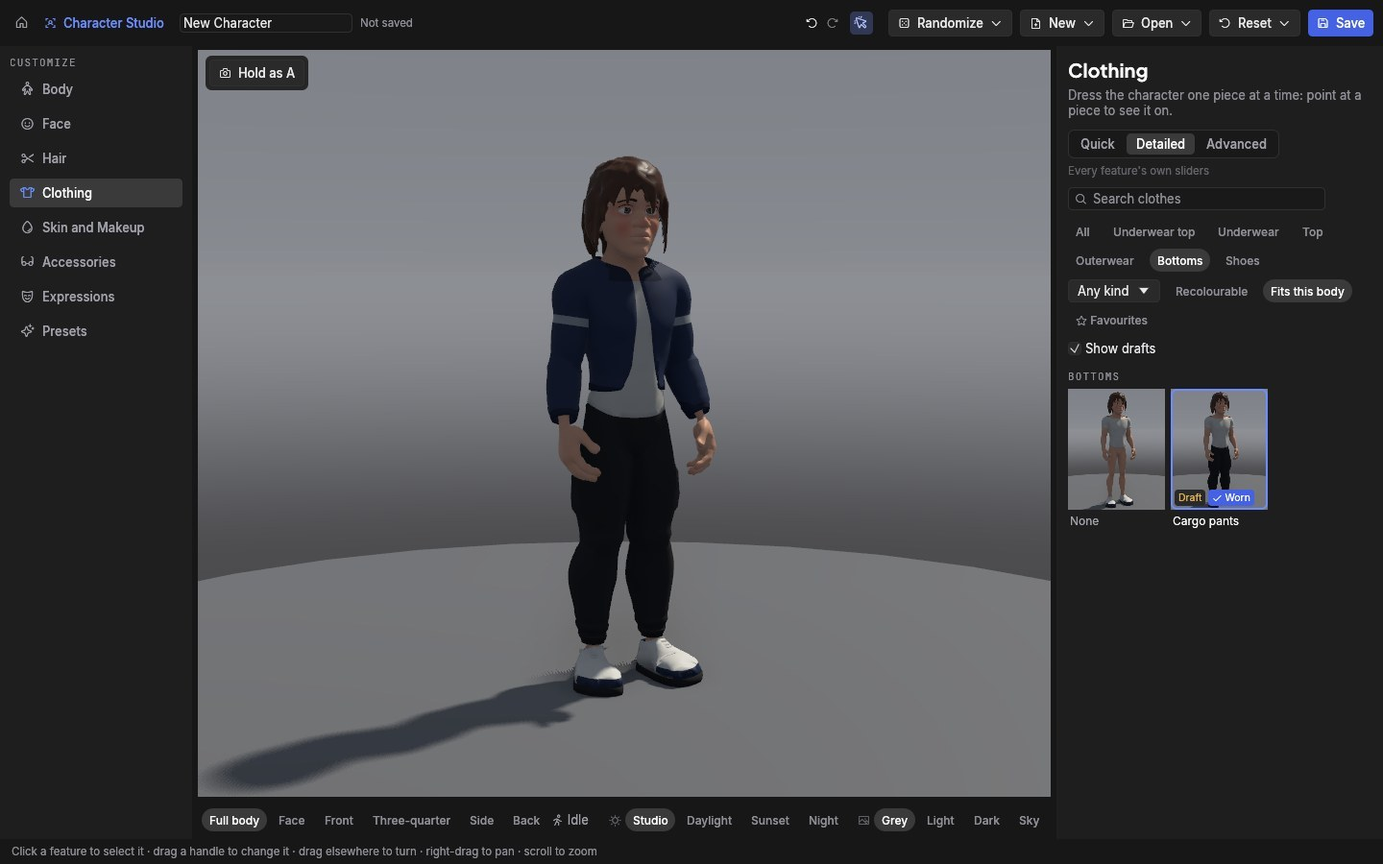
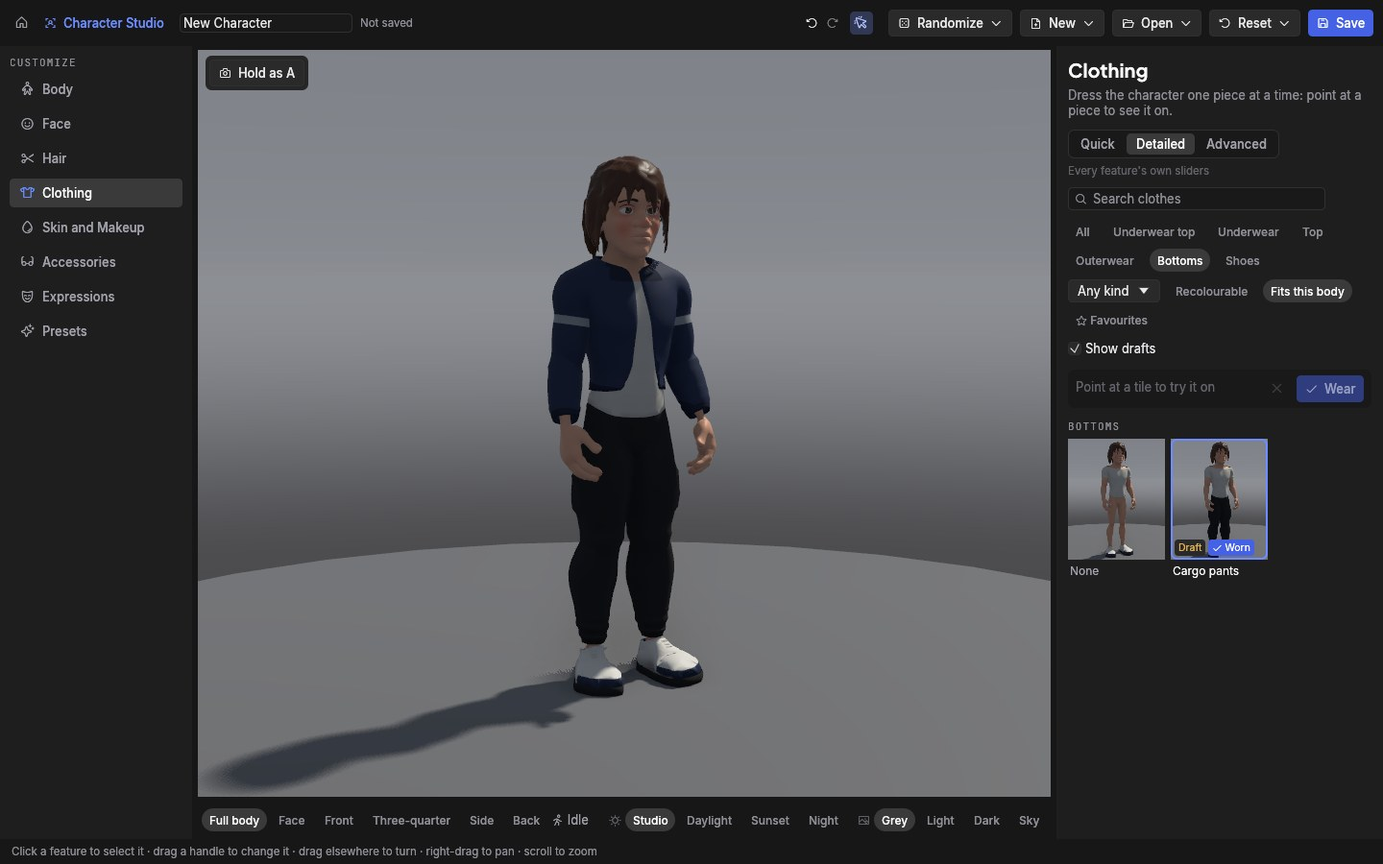
Browsers Review Fixes 2: Picking a Tile Never Moves the Tiles
The "Trying on" bar appeared only once a tile was picked, so a pick
moved every tile 52 points under the still pointer and the next frame
tried on the tile above the one clicked (and clicking the worn tile
tried on the one below). The bar is now always drawn (a hint with Wear
and the close button greyed when nothing is picked), and a click mutes
the tile under the pointer as Esc does, so nothing new is tried on
until the pointer moves. Two pointer-event tests, seen failing first.

Also a TODO(ux-drag) on the colour picker, the docs for the bar and
the mute, and the six redrawn sheets.

Changed region(s): [[0.75, 0.4356, 1.0, 0.6844], [0.4688, 0.2489, 0.5, 0.28], [0.4375, 0.2178, 0.4688, 0.2489]]

diff --git a/crates/editor/src/character_workspace/browser_tests.rs b/crates/editor/src/character_workspace/browser_tests.rs
@@ -1208,3 +1208,122 @@ fn esc_takes_a_try_on_off_while_the_pointer_stays_on_its_tile() {
     );
     let _ = std::fs::remove_dir_all(&folder);
 }
+
+/// One frame of `workspace` drawn in `ctx` with `events`.
+fn frame_in(
+    ctx: &egui::Context,
+    workspace: &mut CharacterWorkspace,
+    events: Vec<egui::Event>,
+) -> egui::FullOutput {
+    theme::run(ctx, input(events), |ui| {
+        assert_eq!(workspace.ui(ui, None), None);
+    })
+}
+
+/// A press (or release) of the main button at `at`.
+fn button_at(at: egui::Pos2, pressed: bool) -> egui::Event {
+    egui::Event::PointerButton {
+        pos: at,
+        button: egui::PointerButton::Primary,
+        pressed,
+        modifiers: egui::Modifiers::NONE,
+    }
+}
+
+/// Moves to `at`, then clicks there, then draws three frames with the
+/// pointer still: what a person does when they click a tile.
+fn click_and_hold_still(ctx: &egui::Context, workspace: &mut CharacterWorkspace, at: egui::Pos2) {
+    frame_in(ctx, workspace, vec![egui::Event::PointerMoved(at)]);
+    frame_in(ctx, workspace, vec![egui::Event::PointerMoved(at)]);
+    frame_in(ctx, workspace, vec![button_at(at, true)]);
+    frame_in(ctx, workspace, vec![button_at(at, false)]);
+    for _ in 0..3 {
+        frame_in(ctx, workspace, Vec::new());
+    }
+}
+
+/// The hairstyle `description` wears (its `hair` slot).
+fn hair_of(workspace: &CharacterWorkspace, description: &Description) -> Option<String> {
+    let library = workspace.library();
+    description
+        .items
+        .iter()
+        .find(|worn| {
+            library
+                .item(&worn.id)
+                .is_some_and(|item| item.slot == "hair")
+        })
+        .map(|worn| worn.id.clone())
+}
+
+#[test]
+fn clicking_near_a_tiles_top_tries_on_that_tile() {
+    // Review fix 2: picking a tile must not move the grid under a still
+    // pointer, or the tile above it would be previewed in its place.
+    let (folder, mut workspace) = stylized_workspace("browser-click-top");
+    workspace.apply(Intent::Browse(Browse::ShowDrafts(true)));
+    let ctx = theme::test_context();
+    frame_in(&ctx, &mut workspace, Vec::new());
+    let output = frame_in(&ctx, &mut workspace, Vec::new());
+    let long = text_at(&output, "Long").expect("the Long tile is drawn");
+    let bob = text_at(&output, "Bob").expect("the Bob tile is drawn");
+    assert!(long.y > bob.y + 50.0, "Long is in a lower row than Bob");
+    // A point near the top of Long's tile: a row's pitch above its label
+    // is the label of the row above; the tile starts about 20 points lower.
+    let at = egui::pos2(long.x, long.y - (long.y - bob.y) + 35.0);
+    frame_in(&ctx, &mut workspace, vec![egui::Event::PointerMoved(at)]);
+    frame_in(&ctx, &mut workspace, vec![egui::Event::PointerMoved(at)]);
+    assert_eq!(
+        hair_of(&workspace, workspace.shown()).as_deref(),
+        Some("axcenity/hair-long"),
+        "the point is on the Long tile"
+    );
+    click_and_hold_still(&ctx, &mut workspace, at);
+    assert_eq!(
+        workspace
+            .browser
+            .selected
+            .as_ref()
+            .and_then(|p| p.item.as_deref()),
+        Some("axcenity/hair-long")
+    );
+    assert_eq!(
+        hair_of(&workspace, workspace.shown()).as_deref(),
+        Some("axcenity/hair-long"),
+        "clicked Long, so the character shows Long (hovered: {:?})",
+        workspace.browser.hovered
+    );
+    let _ = std::fs::remove_dir_all(&folder);
+}
+
+#[test]
+fn clicking_the_worn_tile_while_trying_one_on_previews_nothing() {
+    // Review fix 2: clicking the worn tile ends the pick (Select(None)); the
+    // tiles must not move under the still pointer and preview another.
+    let (folder, mut workspace) = stylized_workspace("browser-click-worn");
+    workspace.apply(Intent::Browse(Browse::ShowDrafts(true)));
+    // Bob is worn: its tile is in the first row, with Long below it.
+    workspace.apply(Intent::Wear {
+        slot: "hair".to_owned(),
+        item: Some("axcenity/hair-bob".to_owned()),
+    });
+    let before = workspace.description().clone();
+    let ctx = theme::test_context();
+    frame_in(&ctx, &mut workspace, Vec::new());
+    let output = frame_in(&ctx, &mut workspace, Vec::new());
+    let long = text_at(&output, "Long").expect("the Long tile is drawn");
+    click_and_hold_still(&ctx, &mut workspace, long);
+    assert!(workspace.browser.selected.is_some(), "Long is picked");
+    let output = frame_in(&ctx, &mut workspace, Vec::new());
+    let bob = text_at(&output, "Bob").expect("the worn Bob tile is drawn");
+    assert!(long.y > bob.y + 50.0, "Long is below Bob");
+    click_and_hold_still(&ctx, &mut workspace, bob);
+    assert!(workspace.browser.selected.is_none(), "the pick is over");
+    assert_eq!(
+        *workspace.shown(),
+        before,
+        "nothing is tried on (hovered: {:?})",
+        workspace.browser.hovered
+    );
+    let _ = std::fs::remove_dir_all(&folder);
+}

diff --git a/crates/editor/src/character_workspace/panel/browser.rs b/crates/editor/src/character_workspace/panel/browser.rs
@@ -194,10 +194,10 @@ pub(super) fn page(
     }
     ui.add_space(4.0);
 
-    // What is being tried on, and the way to wear it.
-    if let Some(pick) = &state.selected {
-        intents.extend(trying_bar(ui, library, base, pick));
-    }
+    // What is being tried on, and the way to wear it. The bar is always
+    // there (a hint when nothing is picked), so picking a tile never moves
+    // the tiles under a still pointer: the tile above would be hovered.
+    intents.extend(trying_bar(ui, library, base, state.selected.as_ref()));
 
     // The worn items' own controls (colours, variants, parameters), above
     // the tiles so they're seen without scrolling; each folds away.
@@ -285,8 +285,8 @@ pub(super) fn page(
         intents.extend(grid(ui, workspace, &slot.id, &tiles, &mut hovered));
         ui.add_space(8.0);
     }
-    // After Esc the tiles can shift under a still pointer (the "Trying
-    // on" bar goes), so a muted tile waits for the pointer to move.
+    // After Esc or a click the tiles can shift under a still pointer (the
+    // worn controls change), so a muted tile waits for the pointer to move.
     let moved = ui.input(|input| input.pointer.delta() != egui::Vec2::ZERO);
     if state.hover_changed(&hovered, moved) {
         intents.push(Intent::Browse(Browse::Hover(hovered)));
@@ -344,11 +344,11 @@ fn trying_bar(
     ui: &mut egui::Ui,
     library: &Library,
     base: &BaseManifest,
-    pick: &Pick,
+    pick: Option<&Pick>,
 ) -> Vec<Intent> {
     let palette = theme::palette(ui.ctx());
     let mut intents = Vec::new();
-    let label = match &pick.item {
+    let label = pick.map(|pick| match &pick.item {
         Some(id) => library
             .item(id)
             .map_or_else(|| id.clone(), |item| item.label.clone()),
@@ -356,34 +356,51 @@ fn trying_bar(
             .slot(&pick.slot)
             .and_then(|slot| slot.empty_label.clone())
             .unwrap_or_else(|| "Nothing".to_owned()),
-    };
+    });
     egui::Frame::new()
         .fill(palette.inset)
         .corner_radius(theme::radius::CARD)
         .inner_margin(egui::Margin::symmetric(8, 6))
         .show(ui, |ui| {
             ui.horizontal(|ui| {
-                ui.label(
-                    egui::RichText::new(format!("Trying on {label}")).color(palette.text_strong),
-                )
-                .on_hover_text("Shown on the character only: nothing is changed until you wear it");
+                // The same widgets either way, so the bar keeps its height.
+                match &label {
+                    Some(label) => ui
+                        .label(
+                            egui::RichText::new(format!("Trying on {label}"))
+                                .color(palette.text_strong),
+                        )
+                        .on_hover_text(
+                            "Shown on the character only: nothing is changed until you wear it",
+                        ),
+                    None => ui.label(
+                        egui::RichText::new("Point at a tile to try it on")
+                            .color(palette.text_muted),
+                    ),
+                };
                 ui.with_layout(egui::Layout::right_to_left(egui::Align::Center), |ui| {
-                    if ui
-                        .add(widgets::button(
-                            widgets::Role::Primary,
-                            Some(icons::CHECK),
-                            "Wear",
-                            &palette,
-                        ))
+                    let wear = ui
+                        .add_enabled(
+                            pick.is_some(),
+                            widgets::button(
+                                widgets::Role::Primary,
+                                Some(icons::CHECK),
+                                "Wear",
+                                &palette,
+                            ),
+                        )
                         .on_hover_text("Wear it (you can undo it)")
-                        .clicked()
-                    {
+                        .on_disabled_hover_text("Click a tile first");
+                    if let Some(pick) = pick.filter(|_| wear.clicked()) {
                         intents.push(Intent::Wear {
                             slot: pick.slot.clone(),
                             item: pick.item.clone(),
                         });
                     }
-                    if widgets::icon_button(ui, icons::X, "Put it back (Esc)", false).clicked() {
+                    let back = ui.add_enabled_ui(pick.is_some(), |ui| {
+                        widgets::icon_button(ui, icons::X, "Put it back (Esc)", false)
+                    });
+                    if back.inner.clicked() {
                         intents.push(Intent::EndPreview);
                     }
                 });

diff --git a/crates/editor/src/character_workspace/browser.rs b/crates/editor/src/character_workspace/browser.rs
@@ -143,9 +143,10 @@ pub struct Browser {
     /// What the preview shows in the character's place while a tile is
     /// hovered or picked: the character wearing it.
     pub preview: Option<Description>,
-    /// The tile under the pointer when a preview ended (Esc, an edit):
-    /// hovering it doesn't preview it again until the pointer leaves it,
-    /// or the panel, still seeing the pointer there, would bring it back.
+    /// The tile under the pointer when a preview ended (Esc, an edit) or a
+    /// tile was clicked: no Hover is taken until the pointer moves off it,
+    /// or the panel, still seeing the pointer there (or a tile shifted
+    /// under it), would bring a preview back.
     pub muted: Option<Pick>,
 }
 
@@ -183,6 +184,17 @@ impl Browser {
         self.hovered = None;
         self.selected = None;
         self.preview = None;
+    }
+
+    /// A click on a tile: picks `pick` (`None`: the worn tile, ending the
+    /// pick). The clicked tile is muted, as after Esc, so whatever else
+    /// comes under the still pointer (should the tiles shift) isn't
+    /// previewed until the pointer moves. A click is a new pick, even of a
+    /// muted tile.
+    pub fn select(&mut self, pick: Option<Pick>) {
+        let clicked = self.hovered.take().or_else(|| pick.clone());
+        self.muted = clicked.or_else(|| self.muted.take());
+        self.selected = pick;
     }
 
     /// Whether the panel should report `hovered`, the tile under the
@@ -601,12 +613,7 @@ impl CharacterWorkspace {
                     return;
                 }
             }
-            Browse::Select(pick) => {
-                // A click is a new pick, even of the muted tile.
-                self.browser.muted = None;
-                self.browser.selected = pick;
-                self.browser.hovered = None;
-            }
+            Browse::Select(pick) => self.browser.select(pick),
         }
         let library = self.library();
         self.browser.update_preview(&self.description, &library);

diff --git a/crates/editor/src/character_workspace/panel/worn.rs b/crates/editor/src/character_workspace/panel/worn.rs
@@ -270,6 +270,11 @@ fn colour_button(
                 values: vec![(COLOUR_VALUE.to_owned(), to)],
                 gesture,
             };
+            // TODO(ux-drag): the colour picker's own HSV and value fields
+            // are numeric controls too (the drag rule: a full range in
+            // 100 to 120 points, Shift about 25%, Ctrl about 2x, typed
+            // values); they are egui's and shared with the Skin page, so
+            // the rule reaches them through `color_palette`, not here.
             if color_palette::edit_srgb(ui, &mut rgb).changed() {
                 let to = (Colour(rgb) != neutral).then_some(MaterialValue::Colour(Colour(rgb)));
                 // The shell closes the step when the pointer is let go.

diff --git a/docs/editor/character-studio.md b/docs/editor/character-studio.md
@@ -20,7 +20,7 @@ Code: `crates/editor/src/character_workspace.rs` (the description, starting a ch
 - **Stylized presets** are `assets/characters/humanoid/presets/*.preset.json`, written by `presets.py` beside its manifest with the stylized parameters: Slim, Athletic, Heavy and Broad bodies for each end of its frame (each names `frame` 0 or 1), Round, Long, Angular and Soft faces, and the Masculine, Feminine and Athletic characters, listed in the catalogue.
 - **Autosave** (CO20,
  `autosave.rs`): unsaved work (a change since the save, or since a new character started) is written to `recovery/character.json`, outside `characters/`, at most every 3 s and never during a drag; Save and a clean close remove it, and so does **Don't Save** when the editor asks before closing (`EditorApp::discard_unsaved` calls `discard_recovery`, which also stops the same work being written again before the window closes), so a quit that throws the work away never leaves it to be offered. When the studio opens on a folder with one it asks **Recover the unsaved character?**: Recover brings it back unsaved, to its own file if it had one; Discard removes it. The start page's picture painter never writes it.
-- **Body**: the manifest's `body` groups, a section each with a slider per parameter, except a parameter with `choices`, which is a chip per choice: the realistic body's **Body type** is Male or Female (`frame` 0 or 1), not a slider. Picking one is one undo step and wears that choice's `items` (Male: boxer briefs; Female: briefs and a sports bra). What a choice wears is always on (`chosen_slots`, `tidy`): the slots it fills aren't on the Clothing page, so the underwear can't be taken off or swapped, and a saved character without it gets it when it opens. The same rule holds outside the studio (`avatar`'s `wear_choices`, run by `resolve` and the Character Runtime's applier): a script's `SetItem` or `RemoveItem` on those slots is an error, and setting `frame` dresses for it. A value between the choices (from a script or an older file) is taken to the nearest when the character is edited. **Face**: the manifest's `face` groups, folded (nine of them) until one is opened or picked in the navigation. Face and Expressions frame the face (the Face view aims at the head bone as posed, so a tall or short character is framed too); leaving them for another page frames the whole character again, unless the camera was moved. With Symmetry a mirrored pair is one slider ("Left ear protrusion" is "Ear protrusion") that sets both, while its sides agree; a pair whose sides differ shows both. A drag is one undo step. **Hair** and **Clothing** are browsers (refinement R6 and R7, CO25 and CO26; brief §7.1, §8.2; `browser.rs`, `panel/browser.rs`, `panel/worn.rs`). **What is offered**: only items for the character's base model, in a slot of the page's category that a person picks in, every slot they `also_fill` one too; a slot a choice fills (the realistic body's underwear) isn't offered and the page says what the body type wears there ("Underwear: Boxer briefs, which comes with the body type."). With nothing offered at all the page is a short empty state ("No hairstyles yet"). At the top, a **search** (every word against the label, ID, tags and `about`), the page's slots as **categories** (All, Top, Outerwear, Bottoms, Shoes; Hair has one slot, so none), and **filters**: Kind (one of the listed items' tags), Recolourable (a material slot with a colour role, or variants), **Fits this body** (on by default: hides an item with a `limitations` range on a base parameter the character is outside; off, the tile's tooltip says "May not fit this body" and why) and Favourites. **Show drafts** is off by default (`asset-quality.md` §5): drafts (an item with no `quality`, or `draft`; every shipped item today) are hidden, the box says how many ("Show drafts (5 hidden)" on the stylized Hair page), and when shown each draft tile is marked **Draft**; a draft that is worn is always listed. Then the **worn items' own controls**, above the tiles so they're seen without scrolling (each a section that folds away), then **Recently used** (the items last worn from a browser, not the worn ones, only on the unfiltered list) and the **tiles**, by slot, favourites first, each slot's empty choice ("Bald", "None") first. A tile is a picture of the character being edited wearing the item (the thumbnails painter on its thread, cached as `thumbnails/items/<id>.<key>.png` and drawn again when the character changes, not during a drag; a hairstyle framed on the head and shoulders, `Subject::Hair`, `hair_orbit`; clothes on the whole body), its label, a star for favourites, **Draft** and **Worn** badges, and a tooltip with its `about`, slot, fit warning and what wearing it takes off (`browser::dressed`: what was in its slots and `also_fills`, anything it `excludes` or that excludes it; what it `requires` goes on). **Preview without committing**: hovering a tile shows the character wearing it while the pointer is there; a click picks it and shows **Trying on …** with **Wear** and ✕. Neither is an undo step or a change to the description (`compare.rs`'s `shown` returns the try-on); Esc, ✕, leaving the page, turning drafts off (for a draft) or any change of the description (an edit, undo or redo, keeping a held version, Randomize: the workspace's `edit`, `transact`, `undo`, `redo` and `cancel_edit` end it) put the character back. After Esc the tile under the pointer stays off until the pointer moves off it (`Browser::muted`; the tiles shift up when the Trying on bar goes, so a still pointer never brings a preview back). **Wear** (or a double click) is one undo step and puts the item first in Recently used. **The worn item's controls** are only what it declares (`browser::Declared`): its **variants** as chips ("As made" first; picking one gives back the colours and values it sets); for a hairstyle, **natural colours** (nine swatches, Black to Red, setting `melanin` and `redness` together and clearing a tint, one undo step) for its colour (the slot with role `primary`) and, only where the style has such slots, its **highlights** (role `secondary`) and **roots** (role `accent`), each with a tint button where the slot offers `tint`; for a garment a colour button per **colour role** (Primary, Secondary, Accent colour: the slots of that role, their `tint`); and its own **parameters** as slider rows at the page's level (the shared row, `panel/row.rs`, so the drag rule lands there for every page). A material slot with no role is no control: a style that declares no highlights shows no highlight control. The intents are `Browse` (filters, Show drafts, the tile hovered or picked: editor state), `EndPreview`, `ToggleItemFavourite`, and the edits `SetItemVariant`, `SetItemMaterial` (several slots and values at once) and `SetItemParameter`. **Accessories** is still the earlier list: the manifest's slots, each a row with the items that fit and the slot's empty choice (R8 makes it a browser). The realistic body's items so far are its underwear (`assets/characters/realistic/underwear.py`); its hair and clothes are CO10 and CO11. The Face page's Brows group has brow height, arch, length (the brows' card drawn in or carried down the temple) and ridge. **Skin and Makeup**: every value of the base's skin-shaded materials (the realistic body's `Skin` slot: tint as a colour button; melanin, redness, undertone, roughness scale, detail strength and scatter scale as sliders), written to `description.materials` (a value at its neutral setting is left out). Since R5 the renderer draws every one of them (the Skin shading model, `docs/rendering/skin.md`). The page also lists `definition` and `softness`, which the realistic manifest drives from muscle and fat: a value set here overrides the body's. Under them, **Makeup and markings** (R5, ADR-0042; `panel/materials.rs`, `makeup`) lists the base's `skin_layers`, each with a check box; on, a makeup layer shows its colour (a colour button; "own tone" for foundation without one, with a reset to the layer's own colour), opacity and roughness, and a marking its opacity, amount and **New pattern** (the next seed). Each change is `Intent::SetSkinLayer` with the whole layer: one undo step, or one per slider drag; off keeps the layer's settings in the description. Reset of the Skin category clears them with the material values. **Expressions**: **Pose and motion** chips (above), then the 15 built-in expressions as chips;
+- **Body**: the manifest's `body` groups, a section each with a slider per parameter, except a parameter with `choices`, which is a chip per choice: the realistic body's **Body type** is Male or Female (`frame` 0 or 1), not a slider. Picking one is one undo step and wears that choice's `items` (Male: boxer briefs; Female: briefs and a sports bra). What a choice wears is always on (`chosen_slots`, `tidy`): the slots it fills aren't on the Clothing page, so the underwear can't be taken off or swapped, and a saved character without it gets it when it opens. The same rule holds outside the studio (`avatar`'s `wear_choices`, run by `resolve` and the Character Runtime's applier): a script's `SetItem` or `RemoveItem` on those slots is an error, and setting `frame` dresses for it. A value between the choices (from a script or an older file) is taken to the nearest when the character is edited. **Face**: the manifest's `face` groups, folded (nine of them) until one is opened or picked in the navigation. Face and Expressions frame the face (the Face view aims at the head bone as posed, so a tall or short character is framed too); leaving them for another page frames the whole character again, unless the camera was moved. With Symmetry a mirrored pair is one slider ("Left ear protrusion" is "Ear protrusion") that sets both, while its sides agree; a pair whose sides differ shows both. A drag is one undo step. **Hair** and **Clothing** are browsers (refinement R6 and R7, CO25 and CO26; brief §7.1, §8.2; `browser.rs`, `panel/browser.rs`, `panel/worn.rs`). **What is offered**: only items for the character's base model, in a slot of the page's category that a person picks in, every slot they `also_fill` one too; a slot a choice fills (the realistic body's underwear) isn't offered and the page says what the body type wears there ("Underwear: Boxer briefs, which comes with the body type."). With nothing offered at all the page is a short empty state ("No hairstyles yet"). At the top, a **search** (every word against the label, ID, tags and `about`), the page's slots as **categories** (All, Top, Outerwear, Bottoms, Shoes; Hair has one slot, so none), and **filters**: Kind (one of the listed items' tags), Recolourable (a material slot with a colour role, or variants), **Fits this body** (on by default: hides an item with a `limitations` range on a base parameter the character is outside; off, the tile's tooltip says "May not fit this body" and why) and Favourites. **Show drafts** is off by default (`asset-quality.md` §5): drafts (an item with no `quality`, or `draft`; every shipped item today) are hidden, the box says how many ("Show drafts (5 hidden)" on the stylized Hair page), and when shown each draft tile is marked **Draft**; a draft that is worn is always listed. Then the **worn items' own controls**, above the tiles so they're seen without scrolling (each a section that folds away), then **Recently used** (the items last worn from a browser, not the worn ones, only on the unfiltered list) and the **tiles**, by slot, favourites first, each slot's empty choice ("Bald", "None") first. A tile is a picture of the character being edited wearing the item (the thumbnails painter on its thread, cached as `thumbnails/items/<id>.<key>.png` and drawn again when the character changes, not during a drag; a hairstyle framed on the head and shoulders, `Subject::Hair`, `hair_orbit`; clothes on the whole body), its label, a star for favourites, **Draft** and **Worn** badges, and a tooltip with its `about`, slot, fit warning and what wearing it takes off (`browser::dressed`: what was in its slots and `also_fills`, anything it `excludes` or that excludes it; what it `requires` goes on). **Preview without committing**: hovering a tile shows the character wearing it while the pointer is there; a click picks it, and the bar above the tiles says **Trying on …** with **Wear** and ✕ (with nothing picked the same bar says "Point at a tile to try it on", Wear and ✕ greyed: it is always there, so picking a tile never moves the tiles under the pointer). Neither is an undo step or a change to the description (`compare.rs`'s `shown` returns the try-on); Esc, ✕, leaving the page, turning drafts off (for a draft) or any change of the description (an edit, undo or redo, keeping a held version, Randomize: the workspace's `edit`, `transact`, `undo`, `redo` and `cancel_edit` end it) put the character back. After Esc, and after a click, the tile under the pointer is muted until the pointer moves off it (`Browser::muted`): a still pointer never brings a preview back, and should the tiles shift under it (the worn item's controls change after Esc or Wear), the tile that comes under it isn't tried on until the pointer moves. **Wear** (or a double click) is one undo step and puts the item first in Recently used. **The worn item's controls** are only what it declares (`browser::Declared`): its **variants** as chips ("As made" first; picking one gives back the colours and values it sets); for a hairstyle, **natural colours** (nine swatches, Black to Red, setting `melanin` and `redness` together and clearing a tint, one undo step) for its colour (the slot with role `primary`) and, only where the style has such slots, its **highlights** (role `secondary`) and **roots** (role `accent`), each with a tint button where the slot offers `tint`; for a garment a colour button per **colour role** (Primary, Secondary, Accent colour: the slots of that role, their `tint`); and its own **parameters** as slider rows at the page's level (the shared row, `panel/row.rs`, so the drag rule lands there for every page). A material slot with no role is no control: a style that declares no highlights shows no highlight control. The intents are `Browse` (filters, Show drafts, the tile hovered or picked: editor state), `EndPreview`, `ToggleItemFavourite`, and the edits `SetItemVariant`, `SetItemMaterial` (several slots and values at once) and `SetItemParameter`. **Accessories** is still the earlier list: the manifest's slots, each a row with the items that fit and the slot's empty choice (R8 makes it a browser). The realistic body's items so far are its underwear (`assets/characters/realistic/underwear.py`); its hair and clothes are CO10 and CO11. The Face page's Brows group has brow height, arch, length (the brows' card drawn in or carried down the temple) and ridge. **Skin and Makeup**: every value of the base's skin-shaded materials (the realistic body's `Skin` slot: tint as a colour button; melanin, redness, undertone, roughness scale, detail strength and scatter scale as sliders), written to `description.materials` (a value at its neutral setting is left out). Since R5 the renderer draws every one of them (the Skin shading model, `docs/rendering/skin.md`). The page also lists `definition` and `softness`, which the realistic manifest drives from muscle and fat: a value set here overrides the body's. Under them, **Makeup and markings** (R5, ADR-0042; `panel/materials.rs`, `makeup`) lists the base's `skin_layers`, each with a check box; on, a makeup layer shows its colour (a colour button; "own tone" for foundation without one, with a reset to the layer's own colour), opacity and roughness, and a marking its opacity, amount and **New pattern** (the next seed). Each change is `Intent::SetSkinLayer` with the whole layer: one undo step, or one per slider drag; off keeps the layer's settings in the description. Reset of the Skin category clears them with the material values. **Expressions**: **Pose and motion** chips (above), then the 15 built-in expressions as chips;
  one shows on the preview's face (a FaceControls of the preview's own on the body, as the capture tool does), never in the description and never an undo step, and leaving the page takes it off.
 - **Undo** is the workspace's own (`edit.rs`): each change of the description is a step; a drag is one transaction (Esc cancels it back to where it started), and a change of nothing (a slider clicked where it is, the name field visited) makes no step and keeps redo. Ctrl+Z undoes, Ctrl+Y and Ctrl+Shift+Z redo (redo is matched first: egui ignores an extra Shift). Reset offers Everything (the body's default character, keeping the name), the open category (its sliders, the items of its slots, for Skin its material values; the body type stays) and the picked feature, each one step. **Save** (Ctrl+S) writes `characters/<name>.character.json`; another character's file is never written over: the character is saved under the first free "<name> 2" and the status line says so. After a rename the old file is moved, with its Recent entry, pictures and pack places, not left beside the new one. **New** (a family or a preset) and **Open** (a saved character) ask Save, Don't Save or Cancel when there are unsaved changes, as Home does; so does closing the editor's window (the character is in the editor's list of unsaved documents).
 - **The character file** is the engine-wide description, format 2 ([architecture.md](../development/character-studio/architecture.md) §5): `name`, `base`, `parameters` by the manifest's IDs, `items`, `materials`. A format 1 file (CS2's `Look`: build, muscle and a part per slot) opens on the stylized body wearing what it wore and saves as format 2. Values out of a parameter's range are brought in and parameters the body hasn't are dropped; a file on a body the library hasn't opens the default character with a notice; a newer format is refused with a message.

diff --git a/docs/development/character-studio/architecture.md b/docs/development/character-studio/architecture.md
@@ -366,7 +366,7 @@ A preset file (`*.preset.json`, `avatar::PRESET_SUFFIX`) is a **format 2 descrip
 
 ## 15c. Character Studio's editing contract (R1)
 
-The workspace's panels never change the character themselves. Each draw function reads the workspace and returns `Intent`s (`editor/src/character_workspace/intent.rs`: set a parameter, wear, pick a category or feature or level, focus a view, undo, redo, save, reset a scope, apply a preset; since R1's second part also save as preset, toggle a favourite, randomize a scope, lock a value, hold the current character, show or keep or discard a held one, side by side, and recover or discard the autosaved one; since wave 3 the asymmetry tools, `Sides { tool, of }`, which mirror a side onto the other or reset a side for a feature's left and right pairs at a level or for one pair, one undo step each (`sides.rs`), and `PreviewMotion`, the preview's pose and motion: Still, Idle, Walk, Run or a gesture, `motion.rs`; since wave 4 the Hair and Clothing browsers, `browser.rs`: `Browse` (a page's search and filters, "Show drafts", the tile hovered or picked), `EndPreview` and `ToggleItemFavourite`, which are editor state, and the worn item's edits `SetItemVariant`, `SetItemMaterial` (values on several of its slots at once: a colour role's slots, a hair colour's melanin and redness) and `SetItemParameter`, one undo step each or one per drag; `Wear` stays the way an item goes on, one undo step, through `browser::dressed`, which also takes off what the item `excludes` or what fills its `also_fills` slots and puts on what it `requires`). Only the shell (`shell.rs`) applies them. `edit.rs` holds the history: snapshots of the description, with transactions (begin, commit, cancel) so a drag is one undo step, and reset by scope (everything, a category, a group). `selection.rs` holds what is being shown: the category, the feature and the level (Quick, Detailed, Advanced, read from each parameter's `level`, `feature` and `about`, §6). Selection, levels, locks, favourites (`favourites.json`), held versions and the second character side by side (`compare.rs`), the autosave (`recovery/character.json`, `autosave.rs`), the preview's expression and pose and motion (the Walk take at its own speed, a clip written to the workspace's `assets/animations/Humanoid/Preview/`, never to a character), the browsers' search, filters, item favourites and recently used items (`favourites.json`, beside the preset favourites) and the **tile tried on** (hovered or picked: shown in the character's place by `shown`, never an undo step or a change to the description until Wear; Esc, leaving the page or any change of the description put the character back: the workspace's `edit`, `transact`, `undo`, `redo` and `cancel_edit` end it, so Keep A and Randomize do too; after Esc the tile under the pointer is muted until the pointer moves off it), the camera and the stage are editor state:
+The workspace's panels never change the character themselves. Each draw function reads the workspace and returns `Intent`s (`editor/src/character_workspace/intent.rs`: set a parameter, wear, pick a category or feature or level, focus a view, undo, redo, save, reset a scope, apply a preset; since R1's second part also save as preset, toggle a favourite, randomize a scope, lock a value, hold the current character, show or keep or discard a held one, side by side, and recover or discard the autosaved one; since wave 3 the asymmetry tools, `Sides { tool, of }`, which mirror a side onto the other or reset a side for a feature's left and right pairs at a level or for one pair, one undo step each (`sides.rs`), and `PreviewMotion`, the preview's pose and motion: Still, Idle, Walk, Run or a gesture, `motion.rs`; since wave 4 the Hair and Clothing browsers, `browser.rs`: `Browse` (a page's search and filters, "Show drafts", the tile hovered or picked), `EndPreview` and `ToggleItemFavourite`, which are editor state, and the worn item's edits `SetItemVariant`, `SetItemMaterial` (values on several of its slots at once: a colour role's slots, a hair colour's melanin and redness) and `SetItemParameter`, one undo step each or one per drag; `Wear` stays the way an item goes on, one undo step, through `browser::dressed`, which also takes off what the item `excludes` or what fills its `also_fills` slots and puts on what it `requires`). Only the shell (`shell.rs`) applies them. `edit.rs` holds the history: snapshots of the description, with transactions (begin, commit, cancel) so a drag is one undo step, and reset by scope (everything, a category, a group). `selection.rs` holds what is being shown: the category, the feature and the level (Quick, Detailed, Advanced, read from each parameter's `level`, `feature` and `about`, §6). Selection, levels, locks, favourites (`favourites.json`), held versions and the second character side by side (`compare.rs`), the autosave (`recovery/character.json`, `autosave.rs`), the preview's expression and pose and motion (the Walk take at its own speed, a clip written to the workspace's `assets/animations/Humanoid/Preview/`, never to a character), the browsers' search, filters, item favourites and recently used items (`favourites.json`, beside the preset favourites) and the **tile tried on** (hovered or picked: shown in the character's place by `shown`, never an undo step or a change to the description until Wear; Esc, leaving the page or any change of the description put the character back: the workspace's `edit`, `transact`, `undo`, `redo` and `cancel_edit` end it, so Keep A and Randomize do too; after Esc or a click the tile under the pointer is muted until the pointer moves off it, and the Trying on bar is always drawn so a pick never moves the tiles), the camera and the stage are editor state:
  none of them is ever written into a description (A3). Comparison (CO19) goes through the same `Intent`s. So does **direct manipulation** (R2, `direct.rs`): a click on the character sends `PickFeature` (the navigation's own intent; the shell moves to the feature's category) and `FocusFeature` (the camera frames a feature that is small on the screen); a handle's drag sends the slider's `SetParameter`, or with Symmetry `SetMirrored`, as one gesture (`Drag` until the release's `Commit`), so a handle and a slider produce the same description and a drag is one undo step; `SetHandles` is the switch (editor state). Which feature is under the pointer comes from a ray against the skin as drawn (`scene::ray_parts` and `ray_model`: the frame's pose, morphed and skinned on the CPU once per pose) and the manifest's features: the smallest feature whose tint covers the point hit, else the body region hit (the build's region map, `TEXCOORD_1`, read by `assets` into `Primitive::regions`) picks a feature that names it, and a smaller feature whose anchors are near (within 1.2 of its radius, at rest) wins over it; a handle under the pointer names its own feature. The tint and the handles are drawn by the editor over the preview, which has no depth test there, so the studio rasterizes the posed character into a small CPU depth buffer each frame (`direct/depth.rs`) and draws only what it sees: a handle behind other skin is neither drawn nor grabbed. Drawing the tint as draw data depth-tested in `render` (ux patterns section 3) remains the long-term route.
 
 ## 16. Rust API (`axcenity_avatar`)

diff --git a/docs/development/character-studio/refinement/wave4/r67-browsers.md b/docs/development/character-studio/refinement/wave4/r67-browsers.md
@@ -151,3 +151,34 @@ Tests after the fixes:
 - `python3 -I scripts/check-wiki.py`: 114 pages, 0 errors, 57 warnings.
 
 No visual change: the pages draw as before, and the sheets still stand.
+
+## Review fixes 2
+
+The second review found one blocking defect, and it was real: picking a tile from the no-bar state made the 52-point "Trying on" bar appear, every tile moved down under the still pointer, and the next frame's Hover tried on the tile **above** the one clicked (click in the top third of Long: the bar said "Trying on Long", the character wore Bob). The reverse happened too: clicking the Worn tile while a bar was open (Select(None)) took the bar away, the tiles moved up, and the tile below was tried on. Two tests reproduce both, written first and seen failing (appended to `r67-browsers-red-run.txt`):
+
+- `clicking_near_a_tiles_top_tries_on_that_tile`: Show drafts on; real pointer events through `workspace.ui` in one egui context; the point is about 15 points below the top of the Long tile (found from the Long and Bob labels; the test first checks a hover there previews Long); move, press, release, three still frames. Red: `left: Some("axcenity/hair-bob")`, `right: Some("axcenity/hair-long")`.
+- `clicking_the_worn_tile_while_trying_one_on_previews_nothing`: Bob is worn (first row, Long below it); click Long, then click the worn Bob tile's label, three still frames; `shown() == description()`. Red: `hovered: Some(axcenity/hair-long)`, the character wore Long. (A first version clicked Swept, which is in the last row with no tile below it, and passed on the old code; the test was moved to Bob so it can fail.)
+
+**Fix, both parts the review suggested:**
+1. **The grid no longer moves on a pick** (`panel/browser.rs`, `trying_bar` now takes `Option<&Pick>`). The bar is always drawn: with nothing picked it says "Point at a tile to try it on" in the muted text colour, with Wear and ✕ greyed (the same widgets, so the same height). Measured on the snapshot: disabled Wear fill (47, 61, 127) against (69, 98, 230) enabled; ✕ (62, 62, 66) against (161, 161, 170); the tiles start at the same y on both.
+2. **A click mutes the tile under the pointer, as Esc does** (`Browser::select`, called by `Browse::Select`). The clicked tile (the one hovered, else the pick) becomes `muted`, so a Hover the panel sends with a still pointer is ignored until the pointer moves (`hover_changed`'s existing rule). This covers any other shift under a still pointer (the worn item's controls appear or go after Wear or Esc). A click is still a new pick, even of a muted tile.
+
+Both tests pass after the fix, and so do the earlier 17 browser tests.
+
+Also from the non-blocking list:
+- `panel/worn.rs`: a `TODO(ux-drag)` on the colour picker (`color_palette::edit_srgb`), whose HSV and value fields are numeric controls too; they are shared with the Skin page, so the rule belongs in `color_palette` and needs an owner.
+- The topic doc and architecture §15c describe the always-drawn bar and the mute after a click.
+- The sheets `hair-drafts-off.jpg`, `hair-drafts-on.jpg`, `hair-preview.jpg`, `hair-search.jpg`, `clothing.jpg` and `clothing-filtered.jpg` are redrawn with the bar (the status line's local path painted over, as before). I looked at all of them at full size and at the bar cropped at 3x: the hint and greyed buttons read as inactive, and the tiles are unchanged. `realistic-clothing-*.jpg` and the 2x tile crops predate this fix (the realistic sheets show no idle bar; the tiles are the same).
+
+Tests after the fixes:
+- Red run, `cargo nextest run -p axcenity-editor --no-fail-fast -E 'test(/browser_tests::/)'`: 19 run, 17 passed, 2 failed (the two new tests).
+- Same filter widened, `-E 'test(/browser_tests::|shell_tests::|compare|character_workspace::tests::/)'`: 41 run, 41 passed.
+- `cargo nextest run -p axcenity-editor --no-fail-fast`: 1418 run, 1416 passed (9 slow, 1 leaky), 2 failed, 11 skipped, no ABORT lines. The 2 were `app::mcp::tests::the_open_editor_keeps_drawing_while_a_toolbox_download_runs` and `app::collab_repo_tests::closing_the_editor_uploads_what_was_saved`, the same load failures both reviews saw; rerun alone with `-j 1`: 2 run, 2 passed.
+- `AXCENITY_SNAPSHOTS=<scratch> cargo test -p axcenity-editor --bin axcenity-editor -- the_browsers_are_drawn`: 1 passed (69 s).
+- `cargo clippy -p axcenity-editor --all-targets -- -D warnings`: clean. `cargo fmt --all`: run.
+- `python3 -I scripts/check-wiki.py`: 114 pages, 0 errors, 57 warnings (none on pages this branch edits).
+
+For the lead at merge (added):
+- **ux-drag merge hazard:** the ux-drag branch removes `Row::typed` from `panel/row.rs`, but `panel/worn.rs` sets `typed: level == Level::Advanced`. The merge has no textual conflict but won't compile: drop that field from `worn.rs` when merging ux-drag, and the item sliders then get the 110-point, Shift and Ctrl rule.
+- `Browse::Select` now goes through `Browser::select`, which sets `muted`; `trying_bar` takes `Option<&Pick>`.
+- Still open (non-blocking, unchanged): no hover throttle, `browser_tiles` not cached, every edit re-keys the tile pictures, Recently used is also filled by Accessories wears, a worn draft is always listed (written in the topic doc; asset-quality.md §5 is not this branch's file), and the other items both reviews listed.
